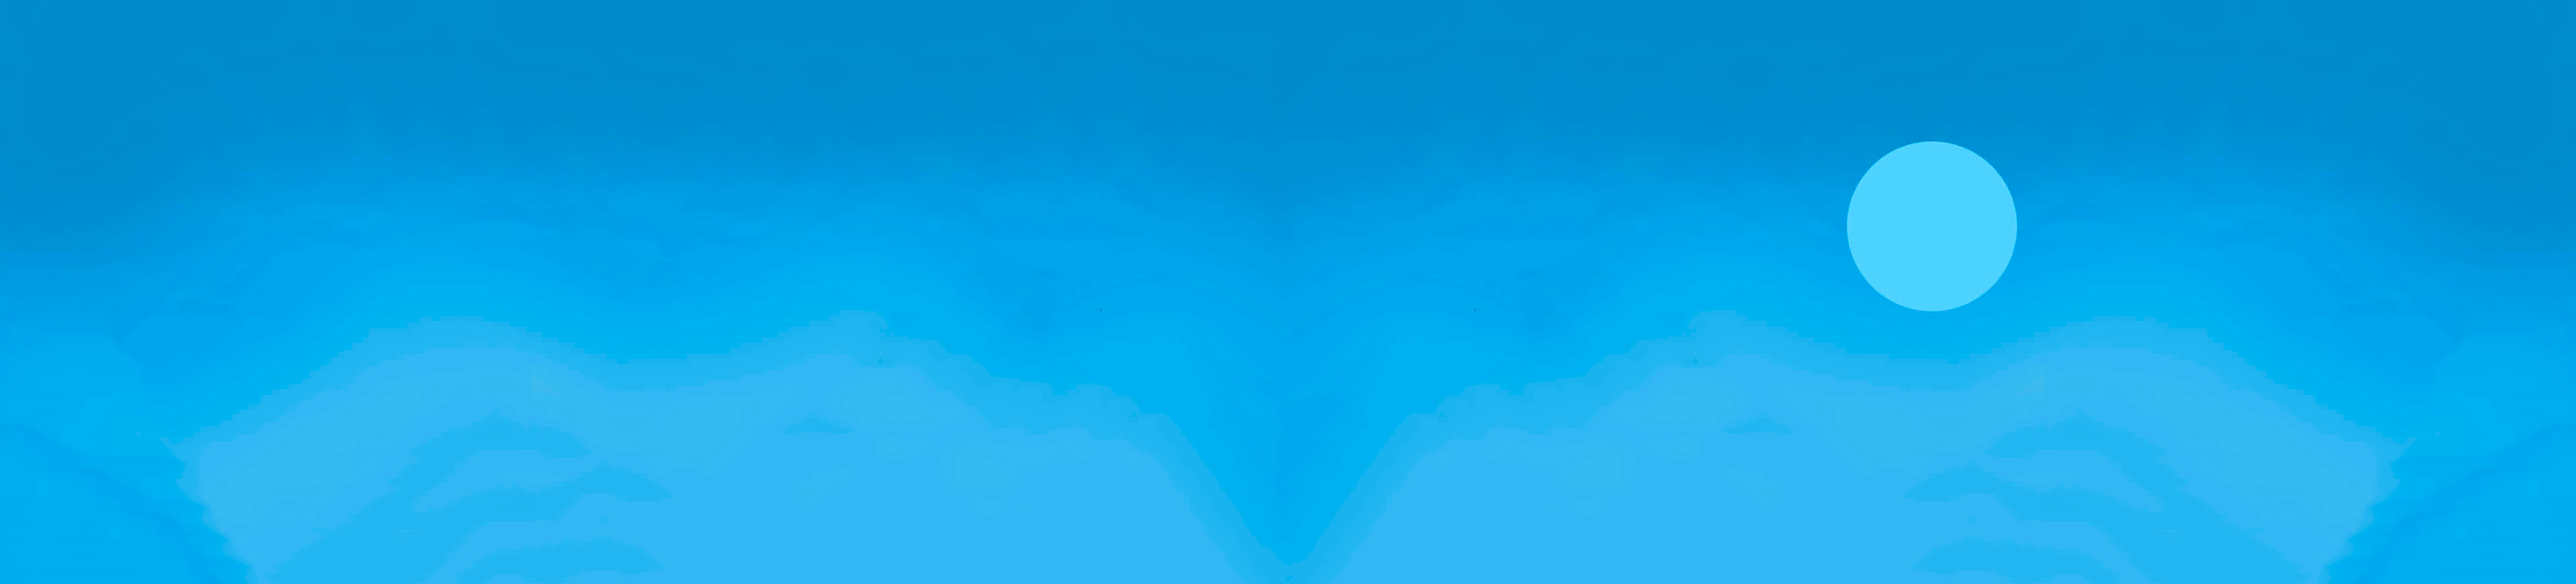
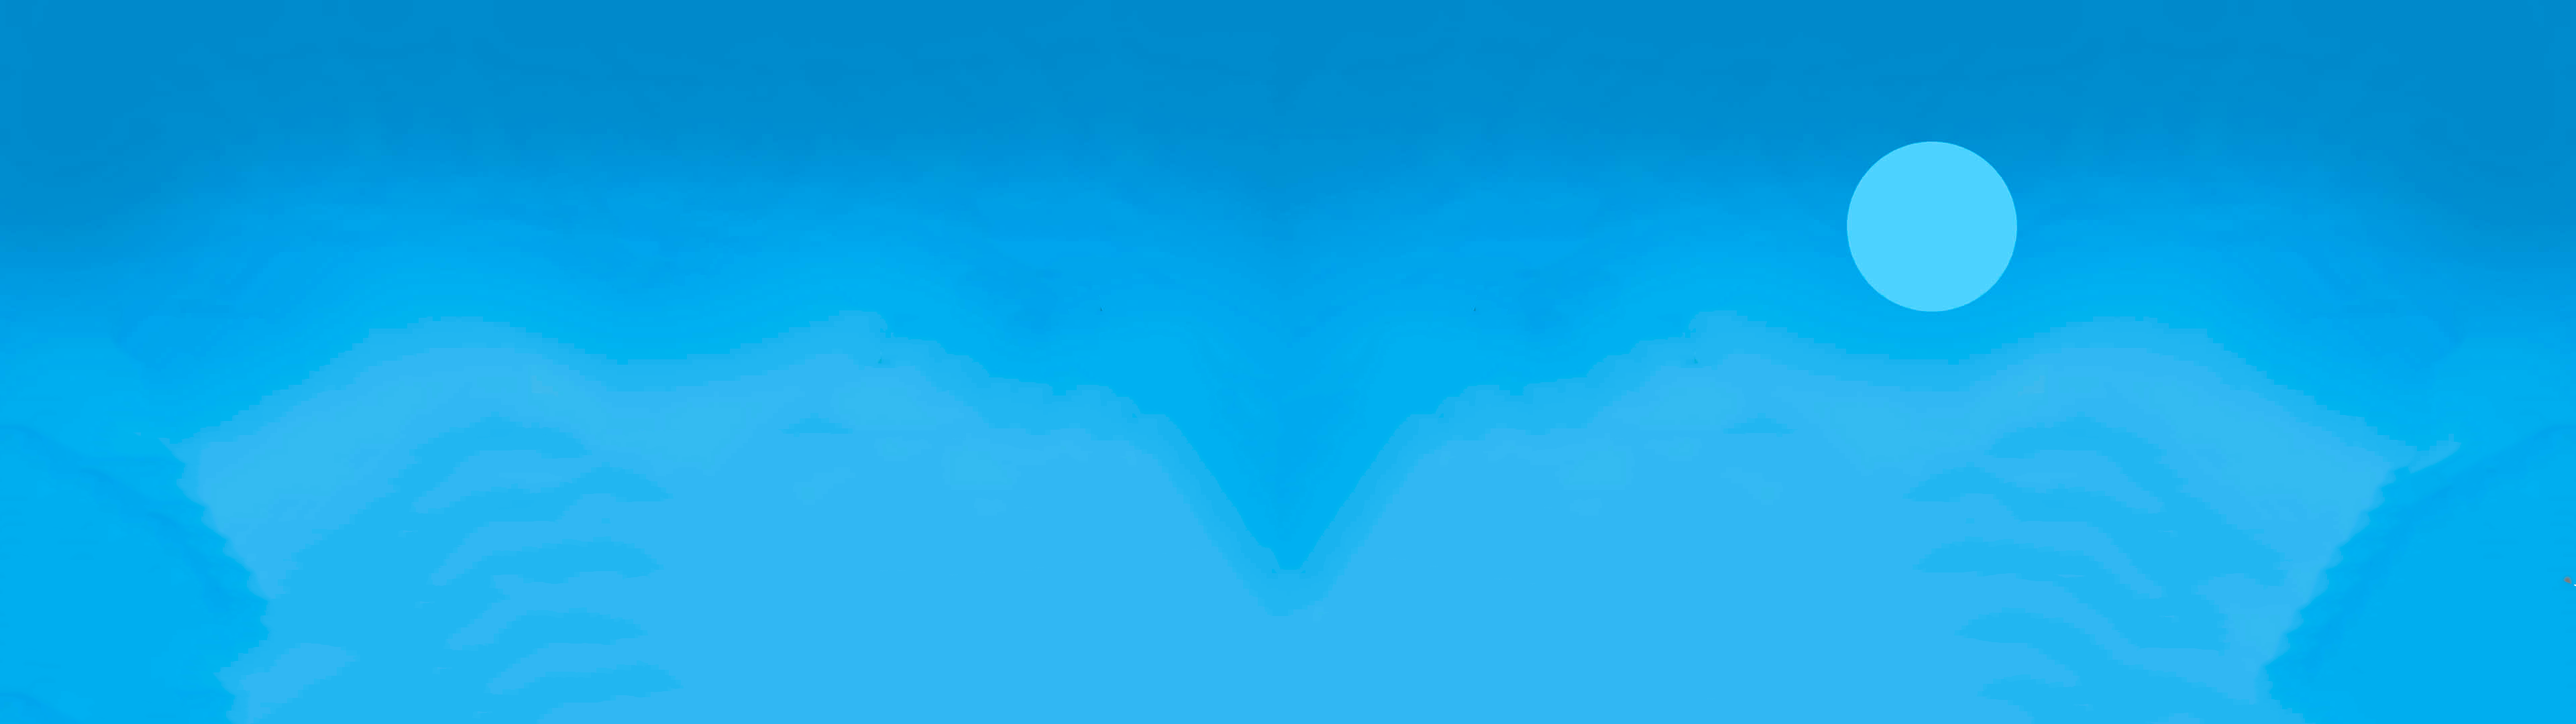
Yeah

Changed region(s): [[0.0625, 0.3716, 0.9688, 1.0], [0.7188, 0.1858, 0.7812, 0.3096], [0.0625, 0.9599, 0.0938, 1.0]]

diff --git a/src/play/Play.java b/src/play/Play.java
@@ -17,11 +17,12 @@ public class Play {
     private String moveUpKey, moveDownKey;
     private ParallaxBG parallaxBackground;
 
+    // параметры зависят от уровня сложности
     private int enemySpeed;
     private int enemySpawnDelay;
     private int coinSpawnDelay;
     private int playerStartLives;
-    private int[] speedsBG;
+    private int bgSpeedCoef;
     private String difficulty;
 
     private ScoreCounter score = new ScoreCounter();
@@ -35,6 +36,12 @@ public class Play {
 
     private PlayersPhysics playersPhysics;
 
+    private Timer bossWaitTimer, bossTransitionTimer;
+    private Boss boss;
+    private BossFightController bossFightController;
+
+    private boolean background = false;
+
     public Play() {
 
         difficulty = App.getProxy().getConfig().getProperty("difficulty", "Средний");
@@ -45,24 +52,21 @@ public class Play {
                 enemySpawnDelay = 3500;
                 coinSpawnDelay = 1500;
                 playerStartLives = 5;
-                speedsBG = new int[]{1, 3, 8};
-
+                bgSpeedCoef = 1;
                 break;
             case "Сложный":
                 enemySpeed = 14;
                 enemySpawnDelay = 1300;
                 coinSpawnDelay = 3500;
                 playerStartLives = 2;
-                speedsBG = new int[]{2, 7, 17};
-
+                bgSpeedCoef = 3;
                 break;
             default: // Средний
                 enemySpeed = 7;
                 enemySpawnDelay = 3000;
                 coinSpawnDelay = 2500;
                 playerStartLives = 3;
-                speedsBG = new int[]{2, 4, 11};
-
+                bgSpeedCoef = 2;
                 break;
         }
 
@@ -71,12 +75,14 @@ public class Play {
         panel.add(score.getScoreLabel());
         initButtons();
         initPlayer();
-        initBackground();
+        initBackgroundDynamic();
         initKeyListener();
         updateKeyBindings();
 
         startCoinLogic();
         startEnemyLogic();
+
+        waitingBoss();
     }
 
     private void initPanel() {
@@ -111,9 +117,43 @@ public class Play {
         int[] yPositions = {0, h - 573, h - 299};
         int[] layerWidths = {2024, 2024, 2024};
         int[] layerHeights = {768, 573, 299};
+        int[] speedsBG = {bgSpeedCoef, 3*bgSpeedCoef, 7*bgSpeedCoef};
         parallaxBackground = new ParallaxBG(backgrounds, speedsBG, yPositions, layerWidths, layerHeights, w, h);
         panel.add(parallaxBackground);
     }
+
+    private void initBackground2() {
+        String[] backgrounds = {
+                "src/pics/parallaxBG/b1.png",
+                "src/pics/parallaxBG/b2.png",
+                "src/pics/parallaxBG/b3.png",
+                "src/pics/parallaxBG/b4.png",
+                "src/pics/parallaxBG/b5.png"
+        };
+
+        int[] yPositions = {0, h - 743, h - 469, h - 399, h - 456};
+        int[] layerWidths = {3840, 3840, 3840, 3840, 3840};
+        int[] layerHeights = {1080, 743, 469, 399, 456};
+        int[] speedsBG = {bgSpeedCoef, 2*bgSpeedCoef, 3*bgSpeedCoef, 4*bgSpeedCoef, 5*bgSpeedCoef};
+
+        parallaxBackground = new ParallaxBG(backgrounds, speedsBG, yPositions, layerWidths, layerHeights, w, h);
+        panel.add(parallaxBackground);
+    }
+
+    private void initBackgroundDynamic() {
+        if (parallaxBackground != null) {
+            panel.remove(parallaxBackground); // удаляем предыдущий фон
+            parallaxBackground.stop();
+        }
+        if (background) {
+            initBackground();
+        } else {
+            initBackground2();
+        }
+        background = !background;
+        panel.repaint();
+    }
+
 
     private void updateKeyBindings() {
         moveUpKey = App.getProxy().getConfig().getProperty("moveUpKey", "W");
@@ -125,11 +165,6 @@ public class Play {
             @Override
             public void keyPressed(KeyEvent e) {
                 String keyName = KeyEvent.getKeyText(e.getKeyCode());
-
-//                if (bossFightActive && bossFightController != null) {
-//                    bossFightController.handleKeyPress(keyName);
-//                }
-
                 if (keyName.equals(moveUpKey)) {
                     playersPhysics.moveUp();
                 } else if (keyName.equals(moveDownKey)) {
@@ -170,6 +205,7 @@ public class Play {
                         new SoundPlayer("src/audio/damage.wav").play();
                         if (playersPhysics.damage()){ // когда жизни заканчиваются
                             new SoundPlayer("src/audio/gameOver.wav").play();
+                            stopBossLogic();
                             showGameOverScreen(score.getScore());
                         }
                         toRemove.add(enemy);
@@ -245,10 +281,85 @@ public class Play {
         App.getProxy().saveConfig();
     }
 
+    private void waitingBoss(){
+        bossWaitTimer = new Timer(10_000, e -> bossTransition());
+        bossWaitTimer.setRepeats(false);
+        bossWaitTimer.start();
+    }
+
+    private void bossTransition(){
+        bossTransitionTimer = new Timer(7_000, e -> startBossFight());
+        bossTransitionTimer.start();
+        bossWaitTimer.stop();
+        if (enemySpawnTimer != null) enemySpawnTimer.stop();
+        if (coinSpawnTimer != null) coinSpawnTimer.stop();
+        boss = new Boss(w, h);
+        boss.enter();
+        panel.add(boss, 0);
+    }
+
+    private void startBossFight(){
+        if (enemyMoveTimer != null) enemyMoveTimer.stop();
+        if (coinMoveTimer != null) coinMoveTimer.stop();
+        bossTransitionTimer.stop();
+
+        // создаётся экземпляр контроллера. В него передается функция, которая исполнится в конце боя с боссом
+        bossFightController = new BossFightController(win -> { // функция для исполнения
+            panel.remove(bossFightController); // контроллер удаляем
+            panel.repaint(); // перерисовка
+            boss.exit(); // босс уходит
+            initBackgroundDynamic();
+            panel.requestFocusInWindow(); // возвращаем фокус на панель
+
+            enemySpawnTimer.start();
+            enemyMoveTimer.start();
+            coinSpawnTimer.start();
+            coinMoveTimer.start();
+
+            waitingBoss();
+
+            if (win) { // если победа
+                score.add(1000);
+            } else { // если поражение
+                new SoundPlayer("src/audio/damage.wav").play();
+                if (playersPhysics.damage()){ // когда жизни заканчиваются
+                    new SoundPlayer("src/audio/gameOver.wav").play();
+                    showGameOverScreen(score.getScore());
+                }
+            }
+        });
+
+        panel.add(bossFightController, 0);
+        bossFightController.requestFocusInWindow();
+    }
+
+    private void stopBossLogic() {
+        if (bossWaitTimer != null) {
+            bossWaitTimer.stop();
+            bossWaitTimer = null;
+        }
+
+        if (bossTransitionTimer != null) {
+            bossTransitionTimer.stop();
+            bossTransitionTimer = null;
+        }
+
+        if (bossFightController != null) {
+            panel.remove(bossFightController);
+            bossFightController = null;
+        }
+
+        if (boss != null) {
+            panel.remove(boss);
+            boss = null;
+        }
+    }
+
     private void exit(){
         backgroundMusic.stop();
         parallaxBackground.stop();
         score.stopScoreUpdater();
+        stopBossLogic();
         deleteObjects();
         App.getProxy().showMenu();
     }

diff --git a/src/play/components/BossFightController.java b/src/play/components/BossFightController.java
@@ -1,0 +1,96 @@
+package play.components;
+
+import javax.swing.*;
+import java.awt.*;
+import java.awt.event.*;
+import java.util.Random;
+import java.util.function.Consumer;
+
+public class BossFightController extends JComponent {
+    private final String[] keys = {"u", "i", "j", "p", "m"}; // кнопки для игры
+    private String currentKey; // которую надо нажать, выбирается случайно
+    private int progress = 35; // начальный прогресс
+    private final int maxProgress = 100; // таргет
+    private Timer lowerProgressTimer; // таймер, который понижает progress
+    private final Consumer<Boolean> resultCallback; // функциональный интерфейс (почитай, что это)
+    private final Random random = new Random();
+
+    public BossFightController(Consumer<Boolean> resultCallback ) { // при вызове accept вызовется функция, которую я сюда передам из Play
+        this.resultCallback = resultCallback; // сохраняется переданная функция
+
+        // делает фокусируемым
+        setFocusable(true);
+        setRequestFocusEnabled(true);
+        setOpaque(false); // отключение непрозрачности
+        setBounds(0, 0, 1280, 720); // задает размеры на весь экран
+
+        chooseNextKey(); // выбирает клавишу для нажатия
+
+        // Уменьшение прогресса
+        lowerProgressTimer = new Timer(100, e -> { // каждую 0,1 секунду убавляем прогресс на 1
+            if (progress > 0) {
+                progress--;
+                repaint();
+            } else {
+                lowerProgressTimer.stop();
+                resultCallback.accept(false); // если проиграли, то вызываем функцию с win = false
+            }
+        });
+        lowerProgressTimer.start();
+
+        // свой KeyListener у BossFightController. Решил не передавать из play, собственно поэтому и передаю фокусировку.
+        addKeyListener(new KeyAdapter() {
+            @Override
+            public void keyPressed(KeyEvent e) {
+                String key = KeyEvent.getKeyText(e.getKeyCode()).toLowerCase();
+                if (key.equals("space")) key = "space";
+                handleKeyPress(key); // функция проверки нажатия и работы с прогрессом
+            }
+        });
+    }
+
+    // выбирает клавишу для нажатия
+    private void chooseNextKey() {
+        currentKey = keys[random.nextInt(keys.length)];
+        repaint();
+    }
+
+    // функция проверки нажатия и работы с прогрессом
+    private void handleKeyPress(String key) {
+        if (key.equalsIgnoreCase(currentKey)) {
+            progress += 10;
+            if (progress >= maxProgress) {
+                progress = maxProgress;
+                lowerProgressTimer.stop();
+                resultCallback.accept(true); // если прогресса достаточно, то мы вызываем функцию с win=true
+            } else {
+                chooseNextKey();
+            }
+            repaint();
+        }
+    }
+
+    @Override
+    protected void paintComponent(Graphics g) {
+        super.paintComponent(g);
+        Graphics2D g2 = (Graphics2D) g;
+
+        // Клавиша текст
+        g2.setFont(new Font("Arial", Font.BOLD, 48));
+        g2.setColor(Color.WHITE);
+        g2.drawString("Нажми: " + currentKey.toUpperCase(), getWidth() / 2 - 100, getHeight() / 2);
+
+        // Прогресс-бар
+        int barWidth = 400;
+        int barHeight = 30;
+        int barX = getWidth() / 2 - barWidth / 2;
+        int barY = getHeight() / 2 + 50;
+
+        g2.setColor(Color.GRAY);
+        g2.fillRect(barX, barY, barWidth, barHeight);
+
+        // заполняет зеленым по размеру progress
+        g2.setColor(Color.GREEN);
+        g2.fillRect(barX, barY, (int)((progress / (double) maxProgress) * barWidth), barHeight);
+    }
+}

diff --git a/src/play/components/Boss.java b/src/play/components/Boss.java
@@ -1,0 +1,60 @@
+package play.components;
+
+import javax.swing.*;
+import java.awt.*;
+
+public class Boss extends JComponent {
+    private Image image;
+    private int targetX, y;
+    private int currentX;
+    private Timer enterTimer;
+    private Timer exitTimer;
+
+    public Boss(int screenW, int screenH) {
+        ImageIcon icon = new ImageIcon("src/pics/boss.png");
+        image = icon.getImage();
+
+        int width = icon.getIconWidth();
+        int height = icon.getIconHeight();
+
+        targetX = screenW - width - 30;
+        y = screenH / 2 - height / 2;
+        currentX = screenW; // начинаем за правым краем
+
+        setBounds(0, 0, screenW, screenH); // компонент занимает весь экран (или панель)
+        setOpaque(false);
+    }
+
+    @Override
+    protected void paintComponent(Graphics g) {
+        super.paintComponent(g);
+        if (image != null) {
+            g.drawImage(image, currentX, y, this);
+        }
+    }
+
+    public void enter() {
+        enterTimer = new Timer(10, e -> {
+            currentX -= 10;
+            if (currentX <= targetX) {
+                currentX = targetX;
+                enterTimer.stop();
+            }
+            repaint();
+        });
+        enterTimer.start();
+    }
+
+    public void exit() {
+        exitTimer = new Timer(10, e -> {
+            currentX += 10;
+            if (currentX >= getWidth()) {
+                exitTimer.stop();
+            }
+            repaint();
+        });
+        exitTimer.start();
+    }
+
+}
+

diff --git a/src/app/App.java b/src/app/App.java
@@ -50,7 +50,6 @@ public class App extends JFrame {
 
     public void showUpgrades() {
         Upgrades.getProxy().refresh();
-
         switchPanel(Upgrades.getProxy().getPanel());
     }
 
